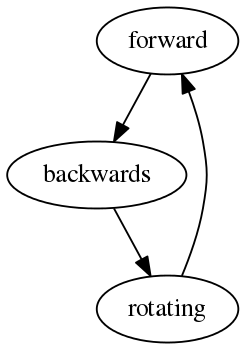
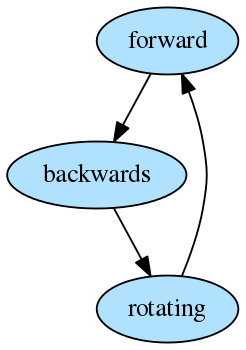
fill color in robot state diagram

Changed region(s): [[0.0285, 0.4, 0.7683, 0.6], [0.3984, 0.7714, 0.9675, 1.0], [0.3984, 0.0, 0.9675, 0.2286]]

diff --git a/README.md b/README.md
@@ -40,6 +40,14 @@ The robot has a two level state machine.
 
 #### State descriptions
 
+The grey state is not part of the software state machine. It is
+present to give a clear picture of what happens when the power is
+turned on.
+
+In the light blue states the robot can drive around in the garden.
+
+In the white states the robot is standing still.
+
 ##### idle
 The robot is idle, waiting to be started manually.
 
